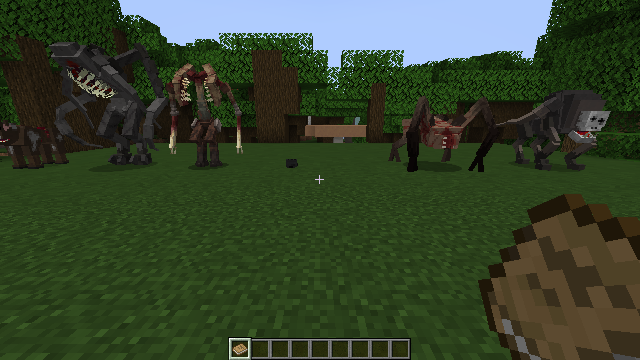
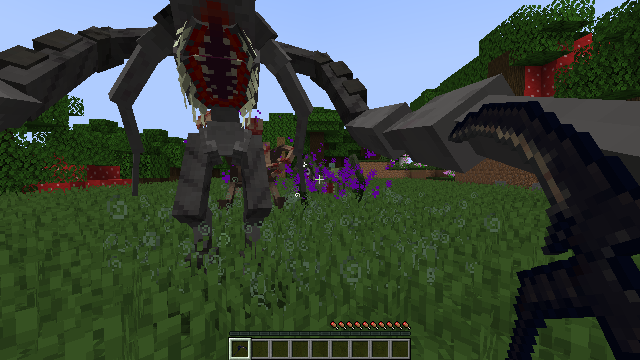
README: Scape and Run: Parasites screenshot of a fight in progress
Claude-Session: https://claude.ai/code/session_013WYWcaZWku2AZ7KmNKZ4iG

diff --git a/README.md b/README.md
@@ -61,8 +61,8 @@ fallout-tinted sky and the scorched crater, all from HBM's own explosion and eff
 
 ![An HBM nuclear explosion](docs/images/hbm-nuke.png)
 
-1.12.2: Scape and Run: Parasites, the 1.12.2 version with its own entity models, AI and attacks. Primitive and adapted parasites
-(longarms, summoner, manducater, buglin) and an infected cow, drawn by the mod's own renderers:
+1.12.2: Scape and Run: Parasites. An adapted longarms closes in while a summoner, manducater and buglin charge behind it, all with
+the mod's own models, AI and attacks; the player holds the mod's sentient scythe:
 
 ![Scape and Run: Parasites on 1.21.1](docs/images/srparasites.png)
 
